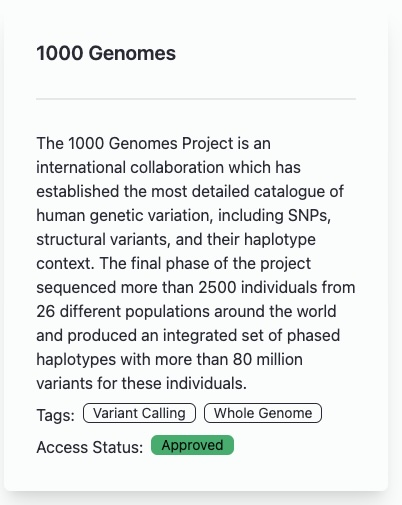
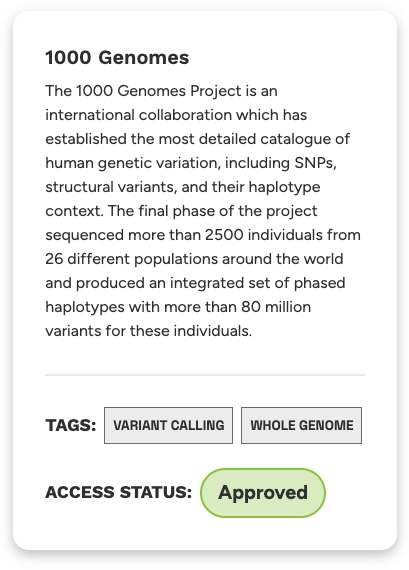
update images to reflect styling changes, main demo article for DRS API

Changed region(s): [[0.0896, 0.1485, 0.8955, 0.9208], [0.0299, 0.9505, 0.9552, 0.9802], [0.0896, 0.0891, 0.4776, 0.1188]]

diff --git a/src/components/HttpsCurlCodeBlock.jsx b/src/components/HttpsCurlCodeBlock.jsx
@@ -1,0 +1,21 @@
+import React from 'react';
+import Tabs from '@theme/Tabs';
+import TabItem from '@theme/TabItem';
+import CodeBlock from '@theme/CodeBlock';
+
+export default function HttpsCurlCodeBlock({ curlCommand, httpsRequest }) {
+  return (
+    <Tabs>
+      <TabItem value="curl" label="cURL" default>
+        <CodeBlock language="bash" className="margin-vert--md">
+          {curlCommand}
+        </CodeBlock>
+      </TabItem>
+      <TabItem value="https" label="HTTPS">
+        <CodeBlock language="http" className="margin-vert--md">
+          {httpsRequest}
+        </CodeBlock>
+      </TabItem>
+    </Tabs>
+  );
+}
